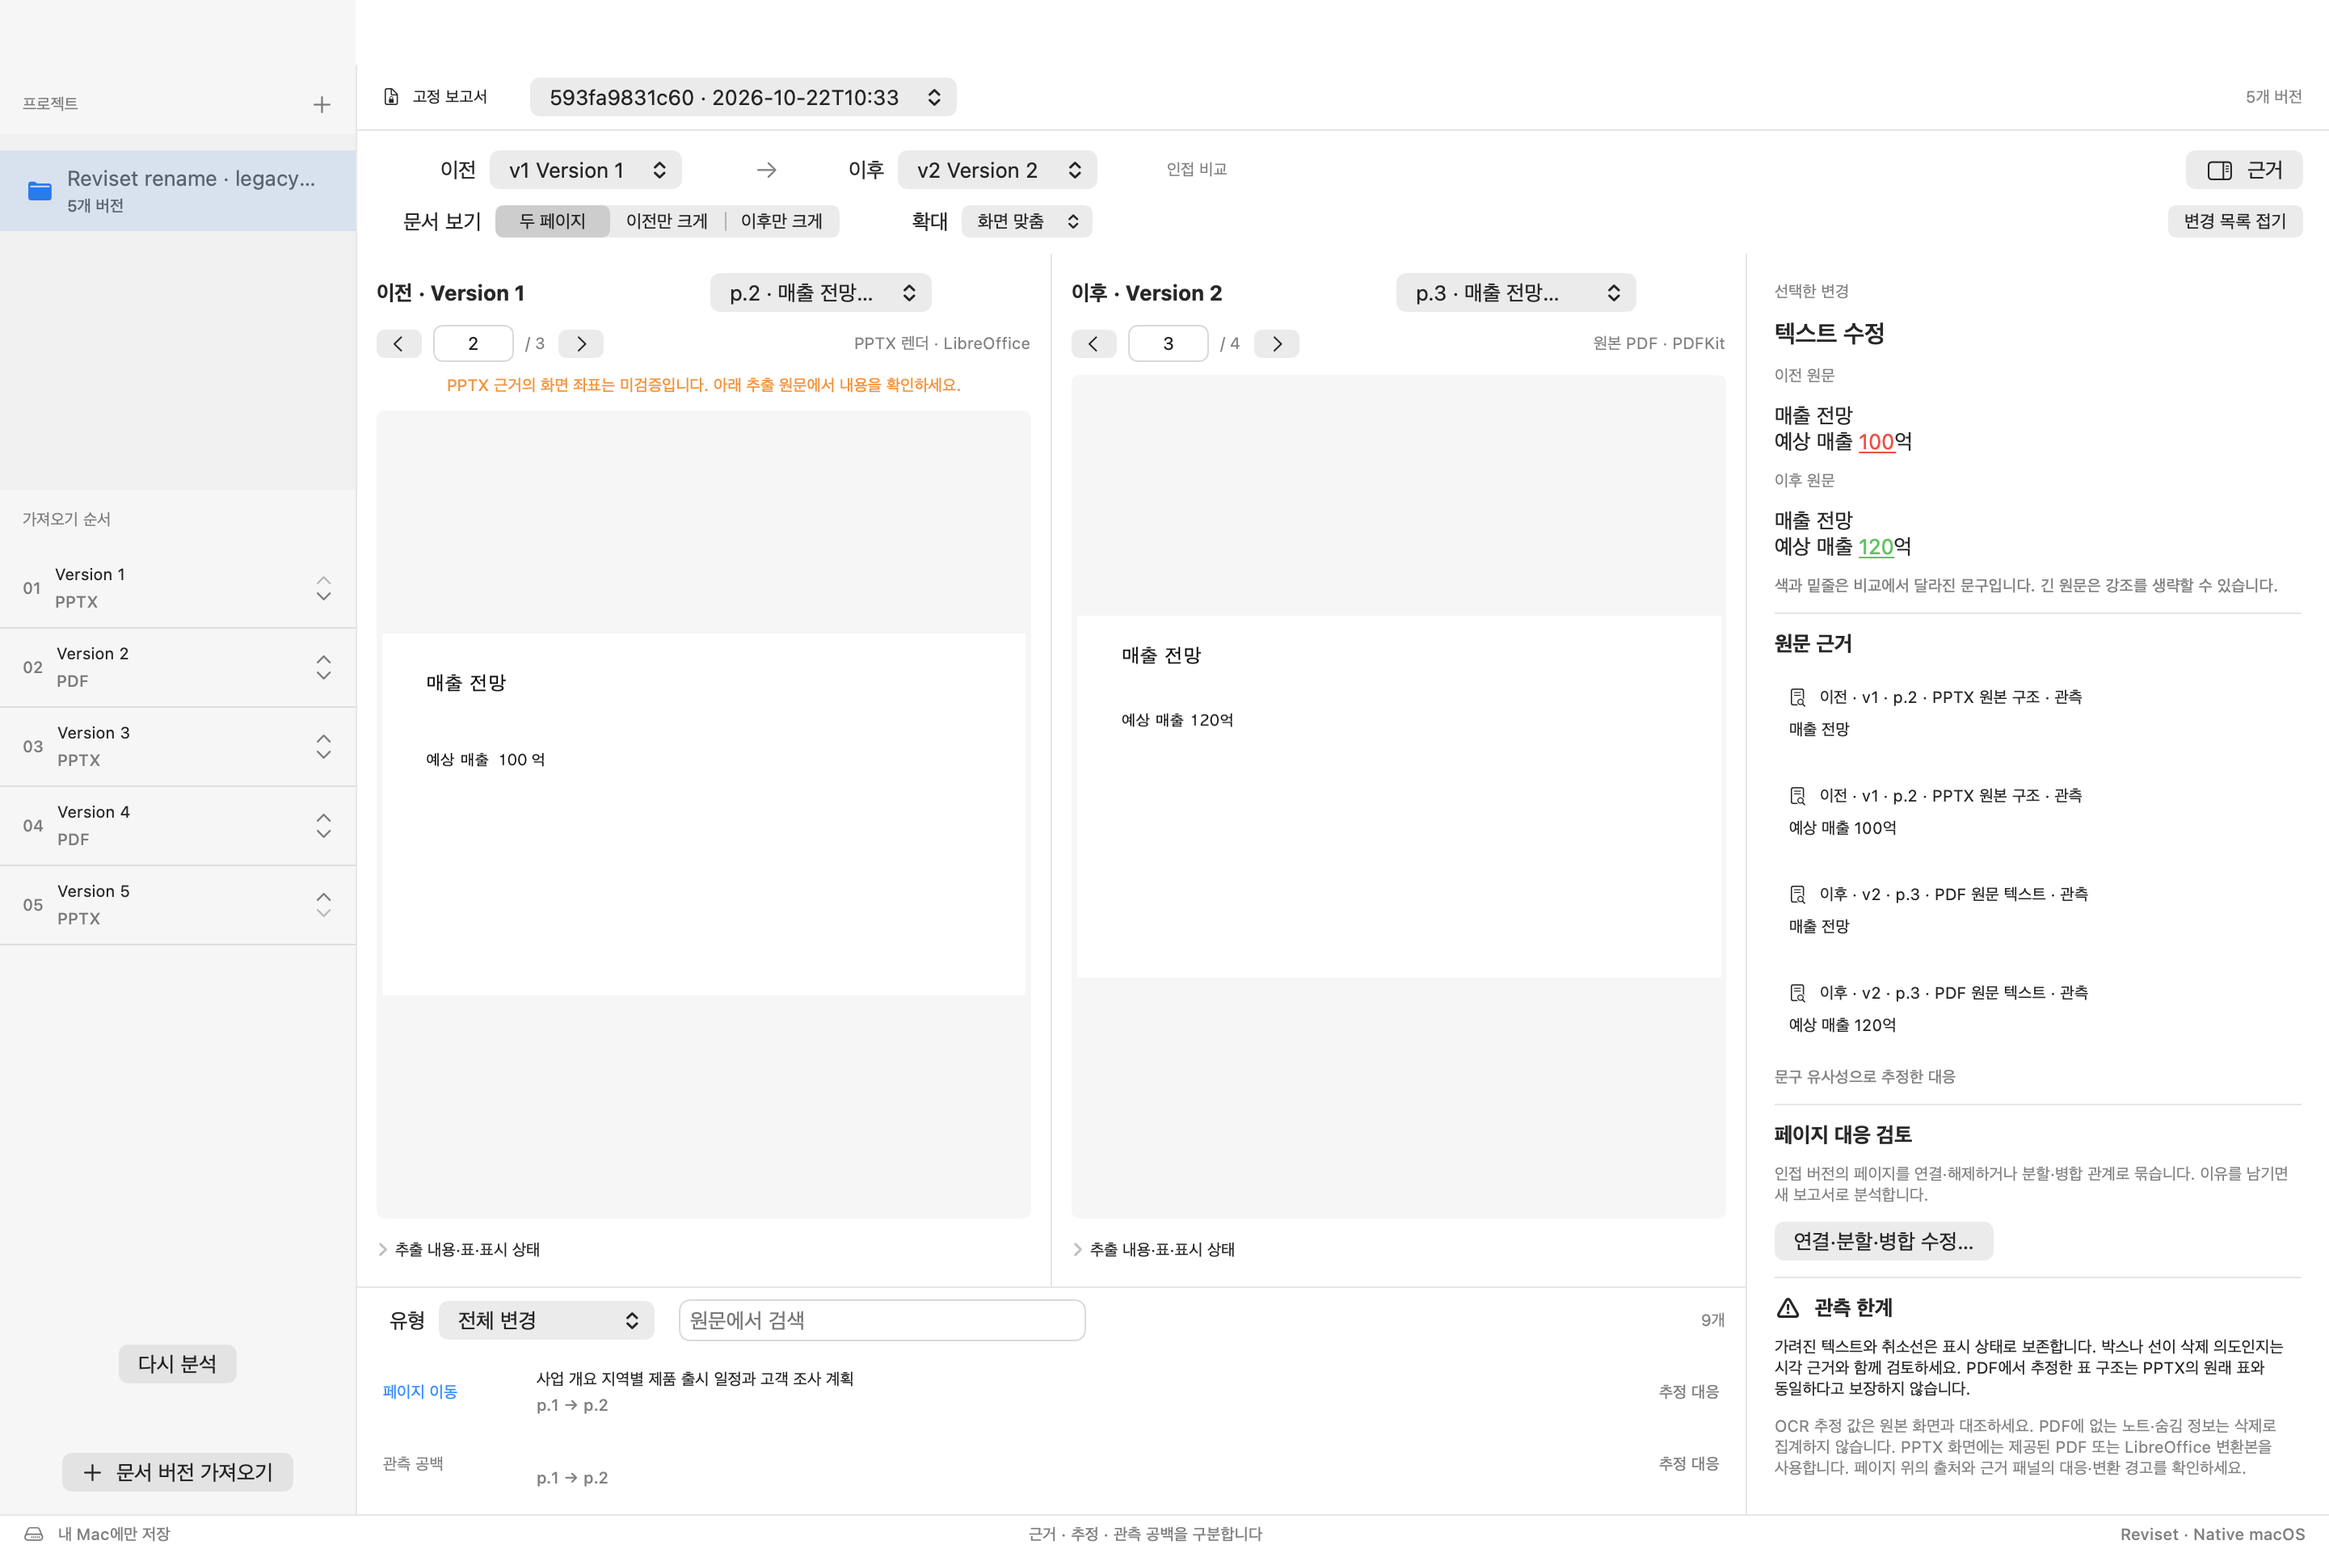
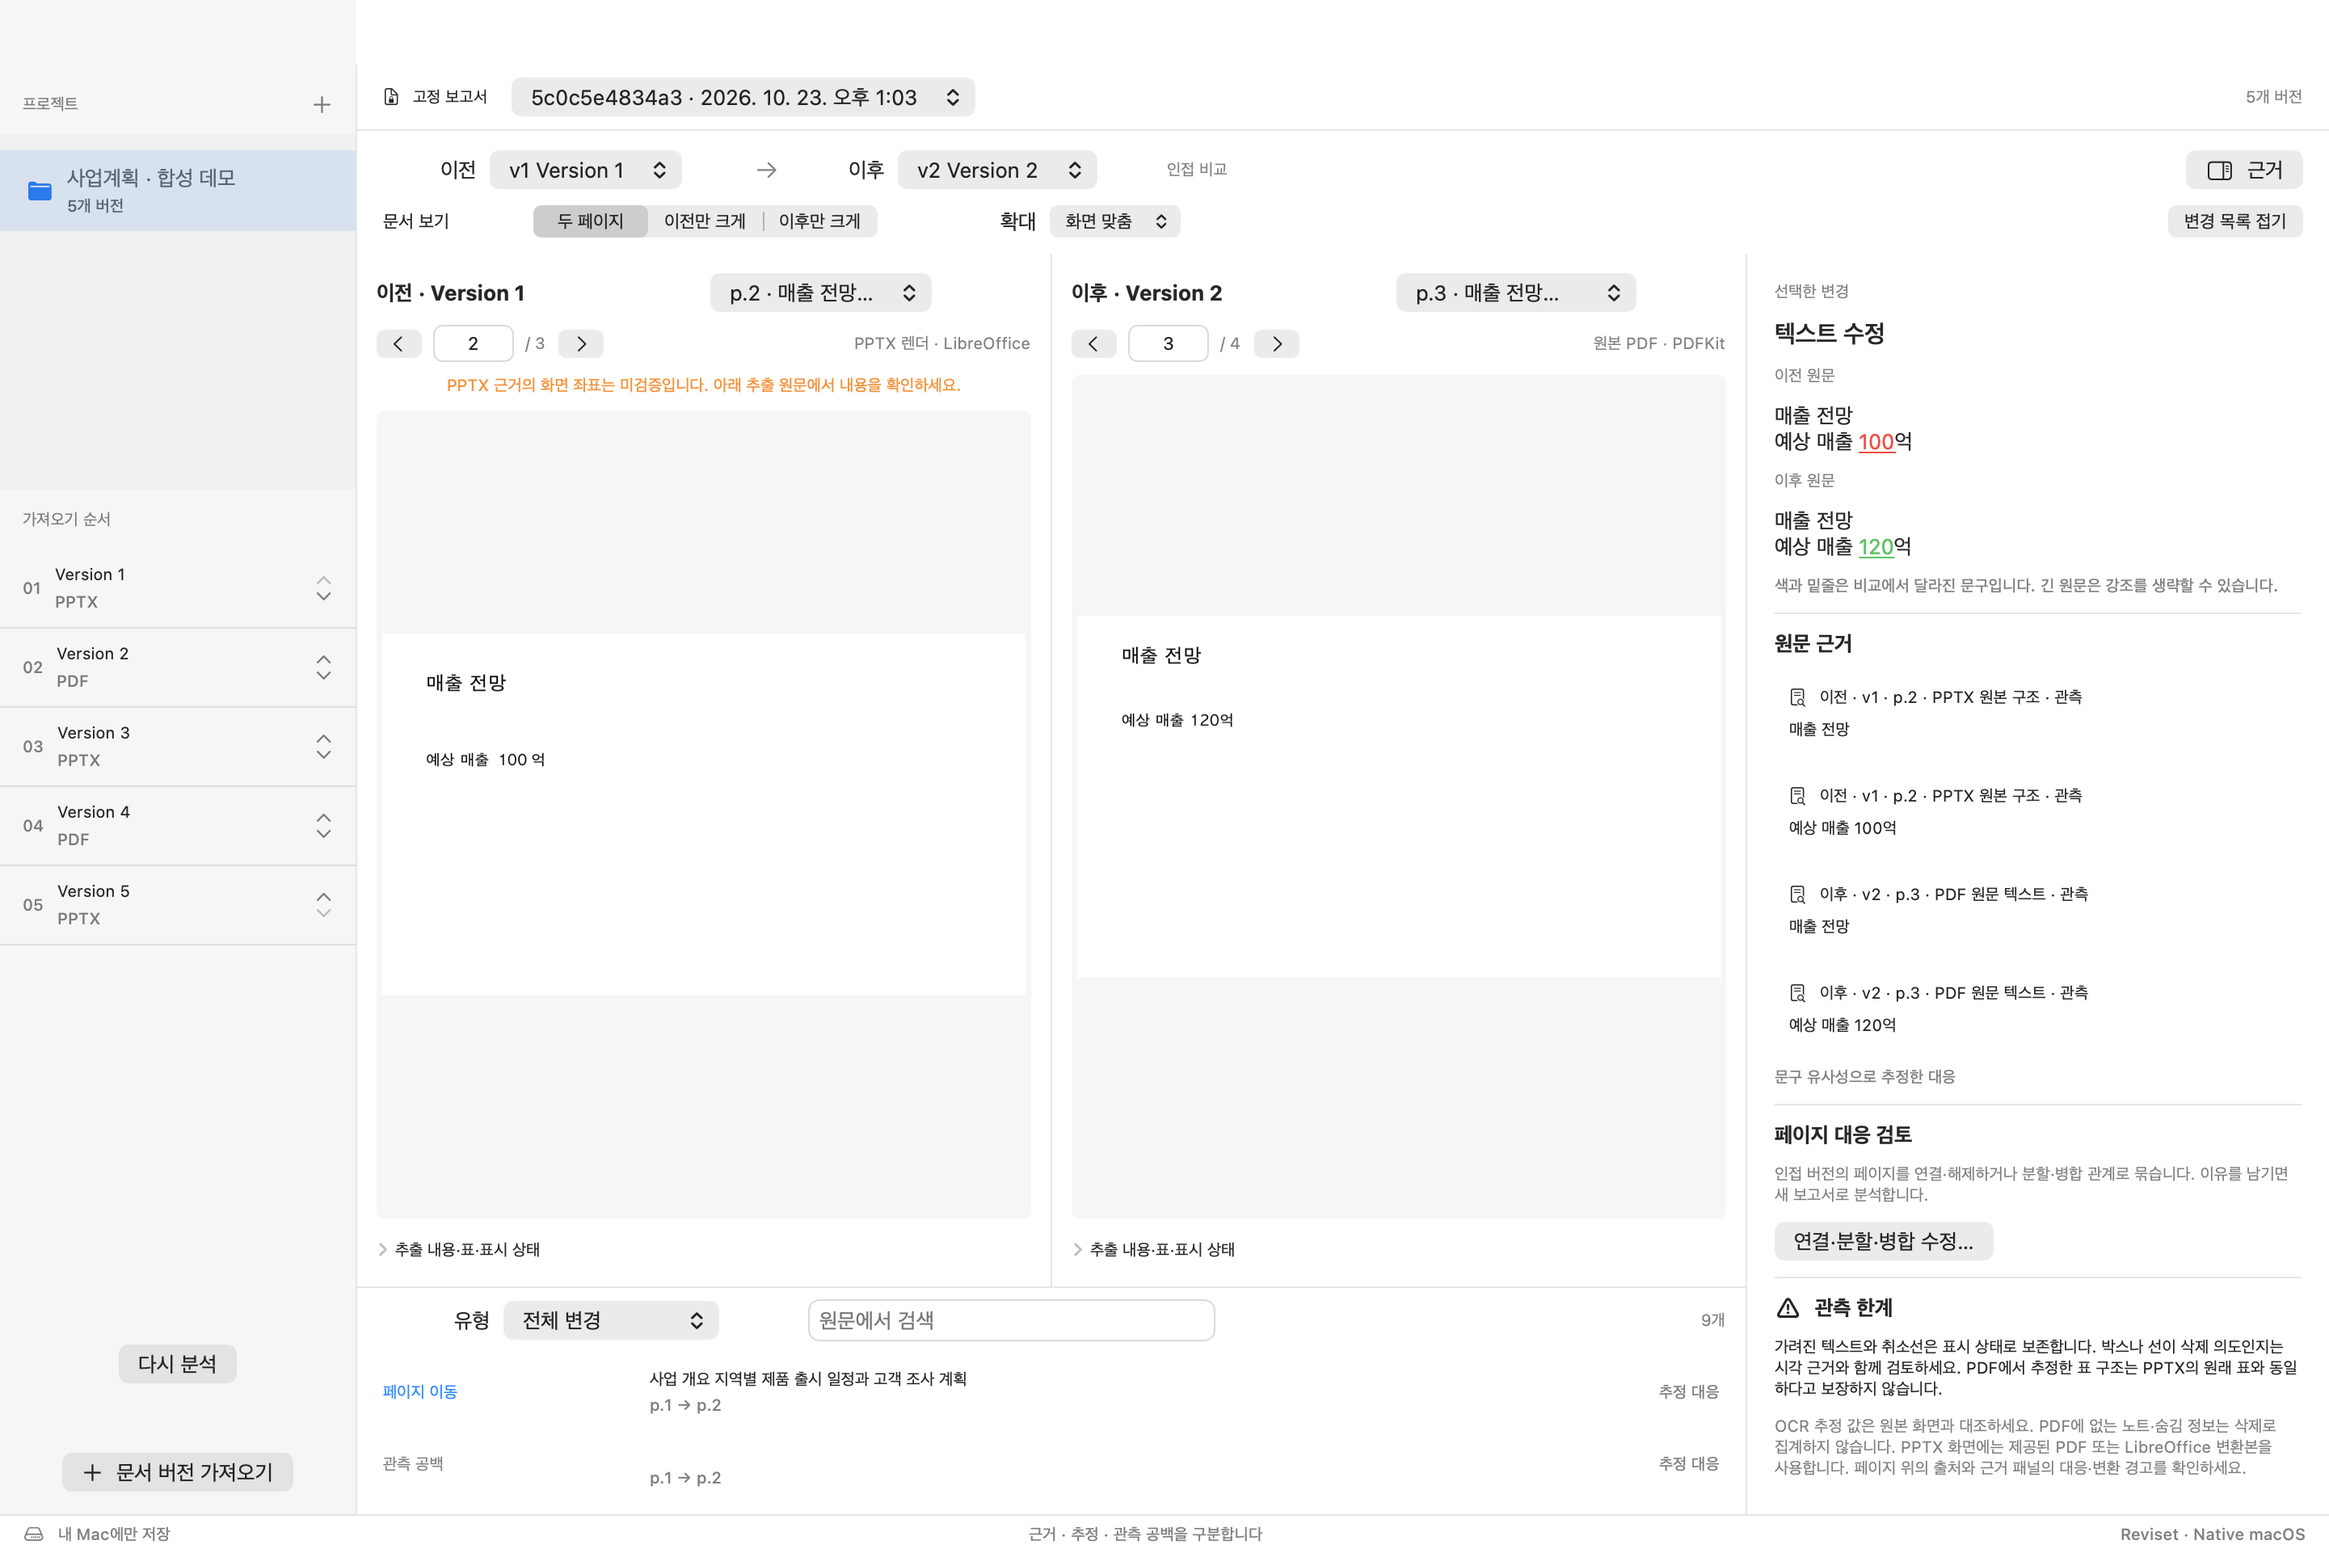
docs: publish bilingual app captures and source-bound validation

diff --git a/docs/LOCALIZATION-2026-10-23.md b/docs/LOCALIZATION-2026-10-23.md
@@ -1,0 +1,77 @@
+# English/Korean interface qualification — 2026-10-23
+
+This record covers native interface localization, human Markdown export copy and preservation of original evidence. It does not extend OCR language coverage or certify PowerPoint rendering fidelity.
+
+## Source and app binding
+
+- Public baseline: `a70974d78d4802a3c93f00b7b4055ed852323e1f`.
+- Final executable source: `9ba86af1a24f0caa3603ee577e81b5bec3d00701` (clean build).
[1 lines of base64/hex data omitted]
+- Local qualified app: `release/Reviset-Languages-7.app`.
[3 lines of base64/hex data omitted]
+
+Documentation and screenshot publication after this code snapshot do not rebuild or relabel the app. Its build-info retains the source commit above. Signatures verified before and after execution are local ad-hoc signatures; public notarized installer distribution remains outstanding.
+
+## Executed checks
+
+| Check | Actual source | Result |
+| --- | --- | --- |
+| Complete integration suite | `f9e5612e933c577b7064fd6116f53b858ea7dfbf` | 464 passed, 0 failed/skipped, 1,219.9 seconds |
+| Final related native/localization/export regression set | `9ba86af1a24f0caa3603ee577e81b5bec3d00701` | 17 passed, 0 failed/skipped, 67.9 seconds |
+| TypeScript and complete Swift 5/macOS 14 typecheck | Final executable source | Passed; Swift warnings treated as errors |
+| Catalog, literal references and placeholder validation | Final executable source | 944 English/Korean keys; none unreferenced |
+| Packaged native app | Final executable source | Four successful document/workbook fresh/reopen runs |
+| Bundled MCP, using all four app-generated configurations | Final executable source | Identical tool schemas and locale-paired query results |
+| Post-run integrity and strict app/node signature verification | Final executable source | Passed |
+
+The complete suite ran before the final UI/review fixes and is not presented as a full-suite run at the final commit. Those changes received the final related regression set, compiler checks and actual final-app execution above. Core extraction/diff/query code and MCP schemas were unchanged by those later fixes. The first isolated-suite attempt lacked generated fixtures and failed; the preserved second attempt generated them and passed.
+
+Fresh-checkout preparation:
+
+```sh
+npm ci
+npm run fixtures
+npm run build
+npm test
+```
+
+## Observed native behavior
+
+The four runs were document-English fresh, document-Korean reopen, workbook-English fresh and workbook-Korean reopen. Each exercised in-process language changes and retained fixed report content. Document and workbook originals are repository-generated synthetic fixtures.
+
+- Actual File/View submenu tracking presented all four app-owned labels in English and Korean. Closed native submenu caches can retain prior titles until the menu opens; testing only those caches produced an earlier false failure. The final check records titles while the real `NSMenu` is open, with timed cancellation.
+- Document checks retained the same model, selected pages/change, report bytes, PDF view identity, supported 150% zoom, scroll origin and displayed page. The same fallback canvas retained its source while localized image/unsupported labels redrew.
+- Import checks retained opaque titles and version labels containing braces, percent markers, Korean and Arabic. Untouched default titles followed the language. Native unchanged-value echoes no longer mark defaults edited; edited and explicitly cleared titles remain user data.
+- Workbook checks retained model/grid/coordinator identity, cell selection, viewport and reveal authority. Cached headers, accessibility labels and tooltips refreshed. Row `1000` used identical ungrouped visible/accessibility digits.
+- Both languages' document, import, defaults, structure, settings and workbook views were inspected in original-resolution captures. Long selected workbook mode text can use ordinary popup ellipsis; its complete text remains in the menu and section heading.
+
+These are actual packaged-app model/actions, native field focus/commit and `NSMenu` tracking checks. They do not claim OS mouse/keyboard automation, a complete interaction matrix or a VoiceOver audit.
+
+## Original evidence and AI reads
+
+Each document MCP run checked 34 raw fields; each workbook run checked 50 cells against the stored fixed report. Locale-paired requests produced exact matching results and identical schemas. SQLite bytes did not change during these read-only sessions. The post-run audit also verified retained original asset hashes (eight document assets and three workbook assets per corresponding run), reopened report equality, app/backend/runtime hashes and the exact prior host language preference.
+
+English/Korean export checks freeze JSON/JSONL and copied-source buffers before the second-language write. They preserve report/export IDs, user reasons, formulas and multilingual quotations, including key-like and format-like strings. Only human Markdown copy and its documented language-specific destination change.
+
+OCR remains configured for Korean/English independently of UI language. The UI smoke result does not assert an unmeasured recognizer configuration. Additional script OCR, universal PDF interpretation and pixel-identical PowerPoint output remain outside this qualification.
+
+## Review and retained evidence
+
+The independent code/spec and architecture lanes reviewed the complete 55-file final implementation. The code lane returned **COMMENT / READY**, with no actionable findings; named LSP tooling was unavailable and full compiler diagnostics were used instead. The architecture lane returned **CLEAR**.
+
[1 lines of base64/hex data omitted]
+
[1 lines of base64/hex data omitted]
+
+## Published captures
+
+The README images are byte-for-byte copies of the final app's synthetic-fixture captures:
+
+| Repository image | SHA-256 |
+| --- | --- |
[4 lines of base64/hex data omitted]

diff --git a/README.md b/README.md
@@ -16,15 +16,15 @@ For example, follow `draft.pptx → review.pdf → final.pptx` as revenue change
 
 ### PPTX and PDF comparison
 
-![Reviset showing a numeric change from 100억 to 120억 with before-and-after source evidence](docs/images/document-comparison.png)
+![Reviset showing a numeric change from 100억 to 120억 with before-and-after source evidence](docs/images/document-comparison-en.png)
 
 A five-version synthetic demo showing the numeric change displayed as `100억 → 120억` and its source evidence. The left pane shows a LibreOffice conversion of a PPTX; the right pane shows the original PDF.
 
 ### Spreadsheet comparison
 
-![Reviset showing inferred row movement from A2 to A3, physical cell addresses, and stored input values](docs/images/workbook-comparison.png)
+![Reviset showing inferred row movement from A2 to A3, physical cell addresses, and stored input values](docs/images/workbook-comparison-en.png)
 
-Inspect the actual before/after addresses, stored input values, and inferred `A2 → A3` row movement. Both screenshots were captured from the running app using synthetic demos.
+Inspect the actual before/after addresses, stored input values, and inferred `A2 → A3` row movement. Both screenshots were captured from the running English interface using synthetic demos. Korean source names and text remain unchanged.
 
 ## Features
 
@@ -71,7 +71,7 @@ Try the built-in **Open five-revision synthetic demo** and **Three-version Excel
 
 Choose **Reviset → Settings…** (`⌘,`) for **System Default**, **English**, or **한국어**. System Default resolves the supported system-language preference order at launch and falls back to English. Reopen Reviset after changing the macOS language order. The app updates its own interface without clearing import/review drafts or starting a new analysis. Some macOS-owned menu items may follow the system app language after reopening.
 
-Interface language and OCR are separate: OCR remains configured for **Korean and English**. Other scripts can be preserved from an available original text layer, with the existing reading-order and extraction limits. See [language support and invariants](docs/LOCALIZATION.md).
+Interface language and OCR are separate: OCR remains configured for **Korean and English**. Other scripts can be preserved from an available original text layer, with the existing reading-order and extraction limits. See [language support and invariants](docs/LOCALIZATION.md) and the [source-bound validation record](docs/LOCALIZATION-2026-10-23.md).
 
 The existing storage location is retained across the rename. Imported originals are copied into `~/Library/Application Support/Docver/library/`. The selected source files are not overwritten. Reanalysis preserves earlier fixed reports separately.
 

diff --git a/docs/images/README.md b/docs/images/README.md
@@ -1,8 +1,10 @@
 # README screenshots
 
-These unedited screenshots show the actual SwiftUI/AppKit/PDFKit application at runtime source `1b2f98b4f727972b8261516ec82064908600455d`. They show Reviset reopening fixed reports created from the preserved Docver build’s bundled synthetic demos. No user documents were used. The legacy report IDs, bodies, and original bytes were verified unchanged; the document capture also shows the new Reviset footer.
+These unedited screenshots show the actual SwiftUI/AppKit/PDFKit application built from clean runtime source `9ba86af1a24f0caa3603ee577e81b5bec3d00701` (`release/Reviset-Languages-7.app`). They use only the repository's bundled synthetic demos. The English captures come from fresh projects; the Korean captures reopen the same fixed reports. Report bodies, retained original asset hashes and read-only SQLite bytes were verified unchanged across languages and reopening.
 
-- `document-comparison.png`: a five-version synthetic demo showing the 100→120 numeric change and its source evidence. The visible left pane is a LibreOffice-converted PPTX (page2), and the right pane is an original PDF (page3).
-- `workbook-comparison.png`: the three-version workbook demo, showing inferred A2→A3 row movement, exact physical addresses and the stored input string SKU001 on both sides. It does not illustrate a formula or a newly calculated result.
+- `document-comparison-en.png` (English) and `document-comparison.png` (Korean): a five-version synthetic demo showing the 100→120 numeric change and its source evidence. The visible left pane is a LibreOffice-converted PPTX (page 2), and the right pane is an original PDF (page 3).
+- `workbook-comparison-en.png` (English) and `workbook-comparison.png` (Korean): the three-version workbook demo showing inferred A2→A3 row movement, exact physical addresses and the stored input string SKU001 on both sides. It does not illustrate a formula or a newly calculated result.
 
-The captures come from the app's internal view-model actions and actual rendered native views. They do not establish OS mouse/keyboard automation, VoiceOver qualification, universal OCR accuracy or PowerPoint rendering equivalence. No screenshot was retouched.
+The captures come from the app's model actions and actual rendered native views. Korean source names and text remain unchanged in the English interface. This qualification does not establish OS mouse/keyboard automation, a VoiceOver audit, universal OCR accuracy or PowerPoint rendering equivalence. No screenshot was retouched.
+
+The [localization qualification record](../LOCALIZATION-2026-10-23.md) lists the exact capture hashes and execution scope.
